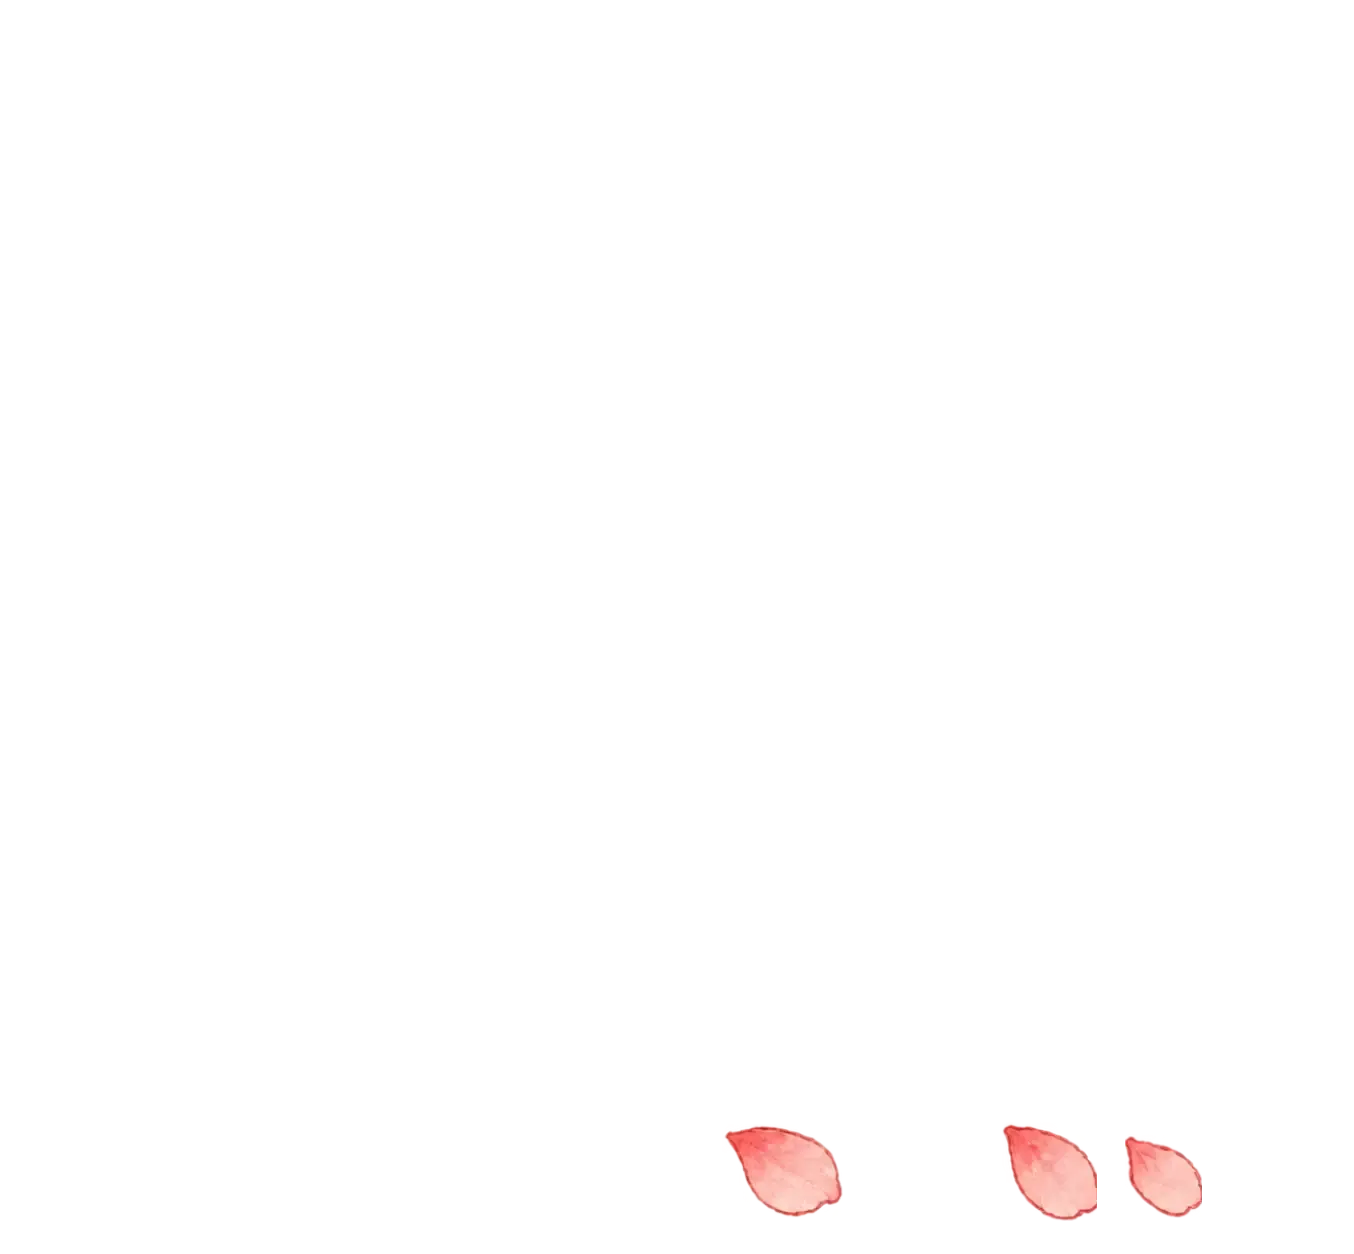
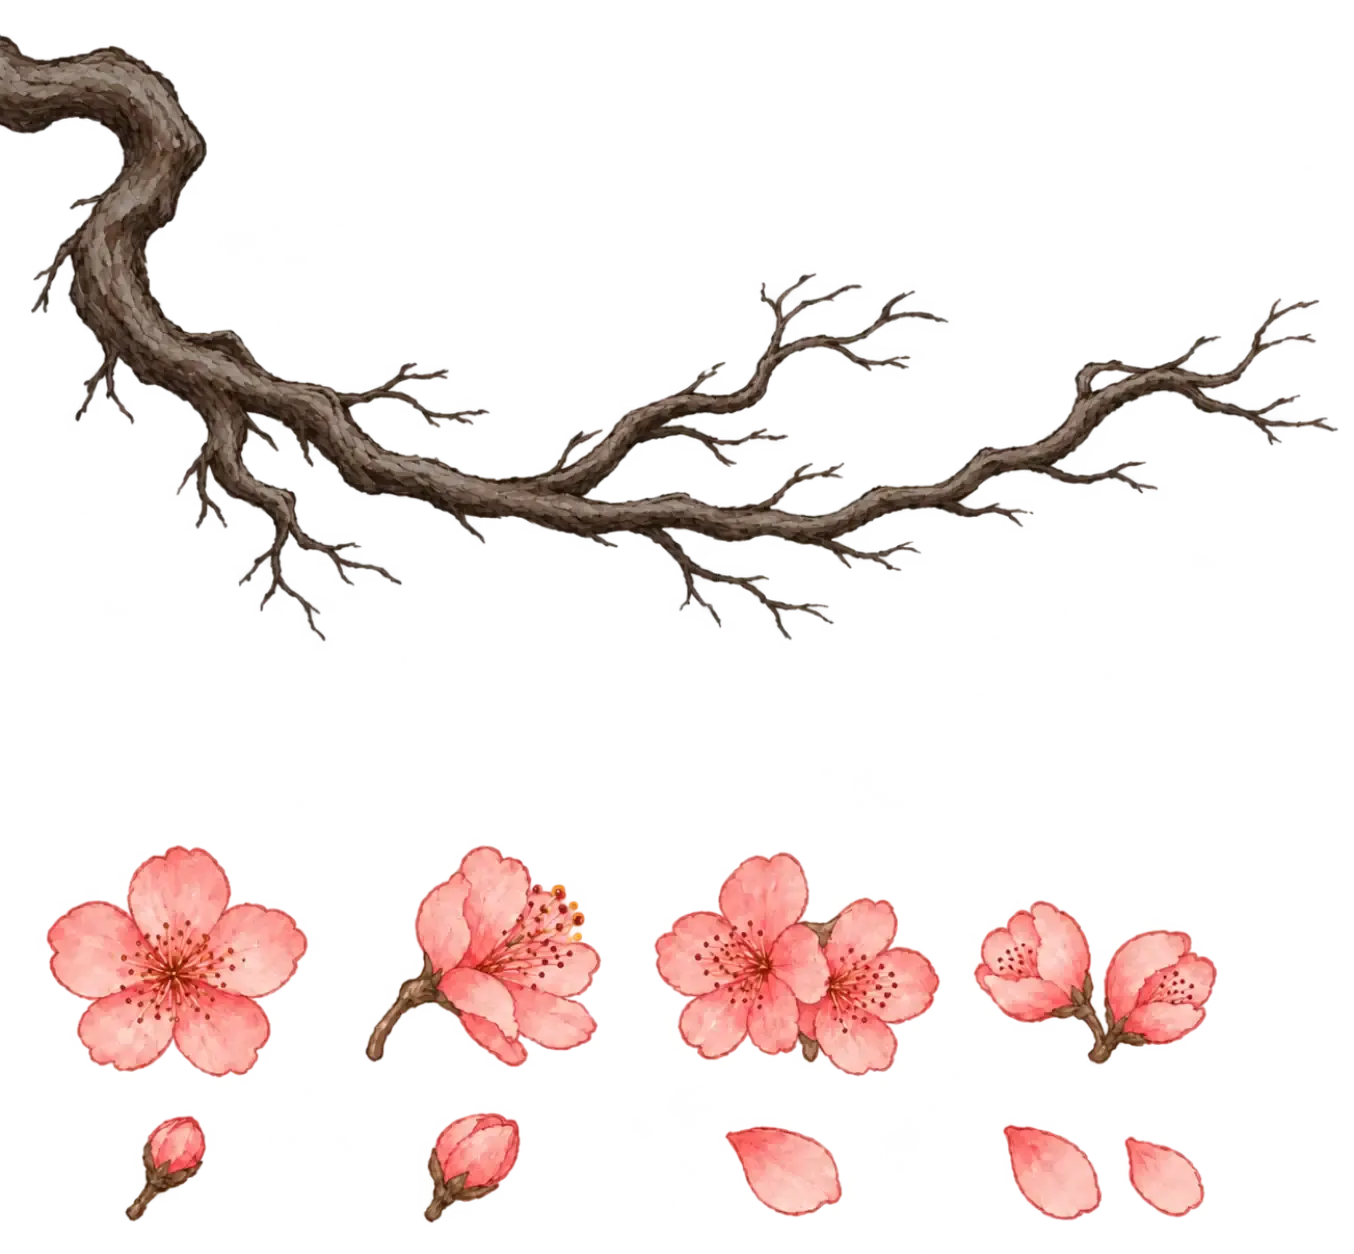
Updated sakura spite animation

diff --git a/components/SakuraBranch.jsx b/components/SakuraBranch.jsx
@@ -1,10 +1,8 @@
 "use client";
 
-import Image from "next/image";
 import { useEffect, useId, useRef, useState } from "react";
 import { preload } from "react-dom";
 import { growth, petals, spriteAnchors, sprites } from "../lib/sakura-art.mjs";
-import sakuraBranch from "../public/images/sakura-branch.webp";
 import sakuraAtlas from "../public/images/sakura-branch-atlas.webp";
 
 const sakuraAtlasUrl = sakuraAtlas.src;
@@ -26,7 +24,7 @@ function Sprite({ id, name, width = sprites[name][2] }) {
 }
 
 export default function SakuraBranch() {
-  preload(sakuraBranch.src, { as: "image", fetchPriority: "high" });
+  preload(sakuraAtlasUrl, { as: "image", fetchPriority: "high" });
   const id = useId();
   const stageRef = useRef(null);
   const artRef = useRef(null);
@@ -35,6 +33,22 @@ export default function SakuraBranch() {
   const burstIdRef = useRef(0);
   const [bursts, setBursts] = useState([]);
   const [ambientReady, setAmbientReady] = useState(false);
+  const [bloomReady, setBloomReady] = useState(false);
+
+  useEffect(() => {
+    let cancelled = false;
+    const atlas = new window.Image();
+    atlas.src = sakuraAtlasUrl;
+    atlas
+      .decode()
+      .then(() => {
+        if (!cancelled) setBloomReady(true);
+      })
+      .catch(() => {});
+    return () => {
+      cancelled = true;
+    };
+  }, []);
 
   const shakeBranch = () => {
     shakeRef.current?.cancel();
@@ -107,7 +121,11 @@ export default function SakuraBranch() {
   }, []);
 
   return (
-    <div ref={stageRef} className="hero-sakura">
+    <div
+      ref={stageRef}
+      className="hero-sakura"
+      data-bloom-ready={bloomReady ? "" : undefined}
+    >
       <button
         ref={artRef}
         type="button"
@@ -117,18 +135,7 @@ export default function SakuraBranch() {
         title="Shake some petals loose"
       >
         <span ref={branchRef} className="sakura-branch-shake">
-          <Image
-            src={sakuraBranch.src}
-            width={1354}
-            height={690}
-            alt=""
-            unoptimized
-            loading="eager"
-            fetchPriority="high"
-          />
-        </span>
-        <svg viewBox="0 0 1354 690" aria-hidden="true" focusable="false">
-          {(ambientReady || bursts.length > 0) && (
+          <svg viewBox="0 0 1354 690" aria-hidden="true" focusable="false">
             <defs>
               <image
                 id={`${id}-atlas`}
@@ -136,21 +143,39 @@ export default function SakuraBranch() {
                 width="1354"
                 height="1254"
               />
-              {Object.entries(sprites)
-                .filter(([name]) => name.startsWith("petal"))
-                .map(([name, bounds]) => (
-                  <symbol
-                    key={name}
-                    id={`${id}-${name}`}
-                    viewBox={bounds.join(" ")}
-                    overflow="hidden"
-                  >
-                    <use href={`#${id}-atlas`} />
-                  </symbol>
-                ))}
+              {Object.entries(sprites).map(([name, bounds]) => (
+                <symbol
+                  key={name}
+                  id={`${id}-${name}`}
+                  viewBox={bounds.join(" ")}
+                  overflow="hidden"
+                >
+                  <use href={`#${id}-atlas`} />
+                </symbol>
+              ))}
             </defs>
-          )}
-
+            <g transform="translate(1354 0) scale(-1 1)">
+              <Sprite id={id} name="branch" />
+              {growth.map(([x, y, name, width, angle]) => (
+                <g
+                  key={`${x},${y}`}
+                  transform={`translate(${x} ${y}) rotate(${angle})`}
+                  style={{ "--bloom-delay": `${Math.round(x * 0.36)}ms` }}
+                >
+                  {name !== "bud" && (
+                    <g className="sakura-bud">
+                      <Sprite id={id} name="bud" width={width * 0.36} />
+                    </g>
+                  )}
+                  <g className="sakura-blossom">
+                    <Sprite id={id} name={name} width={width} />
+                  </g>
+                </g>
+              ))}
+            </g>
+          </svg>
+        </span>
+        <svg viewBox="0 0 1354 690" aria-hidden="true" focusable="false">
           {ambientReady &&
             petals.map(([x, y, name, width, duration, delay, drift]) => (
               <g key={x} transform={`translate(${x} ${y})`}>

diff --git a/app/globals.css b/app/globals.css
@@ -257,10 +257,11 @@ body {
   cursor: pointer;
 }
 
-.sakura-branch-shake img {
+.sakura-branch-shake > svg {
   display: block;
   width: 100%;
   height: auto;
+  overflow: visible;
 }
 
 .hero-sakura-art:focus-visible {
@@ -309,6 +310,7 @@ body {
   }
 }
 
+.sakura-bud,
 .sakura-petal {
   opacity: 0;
 }
@@ -317,13 +319,48 @@ body {
   opacity: 1;
 }
 
+.hero-sakura[data-bloom-ready] .sakura-bud {
+  animation: sakura-bud 440ms ease-out var(--bloom-delay) both;
+}
+
+.hero-sakura[data-bloom-ready] .sakura-blossom {
+  animation: sakura-bloom 620ms cubic-bezier(0.16, 1, 0.3, 1)
+    calc(var(--bloom-delay) + 210ms) both;
+}
+
 .sakura-petal {
   animation: sakura-drift var(--petal-duration) linear var(--petal-delay)
     infinite;
 }
 
-.hero-sakura[data-paused] :is(.sakura-petal, .sakura-click-petal) {
+.hero-sakura[data-paused]
+  :is(.sakura-bud, .sakura-blossom, .sakura-petal, .sakura-click-petal) {
   animation-play-state: paused;
+}
+
+@keyframes sakura-bud {
+  0% {
+    opacity: 0;
+    transform: scale(0.35);
+  }
+  45% {
+    opacity: 1;
+  }
+  100% {
+    opacity: 0;
+    transform: scale(1);
+  }
+}
+
+@keyframes sakura-bloom {
+  from {
+    opacity: 0;
+    transform: scale(0.42);
+  }
+  to {
+    opacity: 1;
+    transform: scale(1);
+  }
 }
 
 @keyframes sakura-petal-fall {
